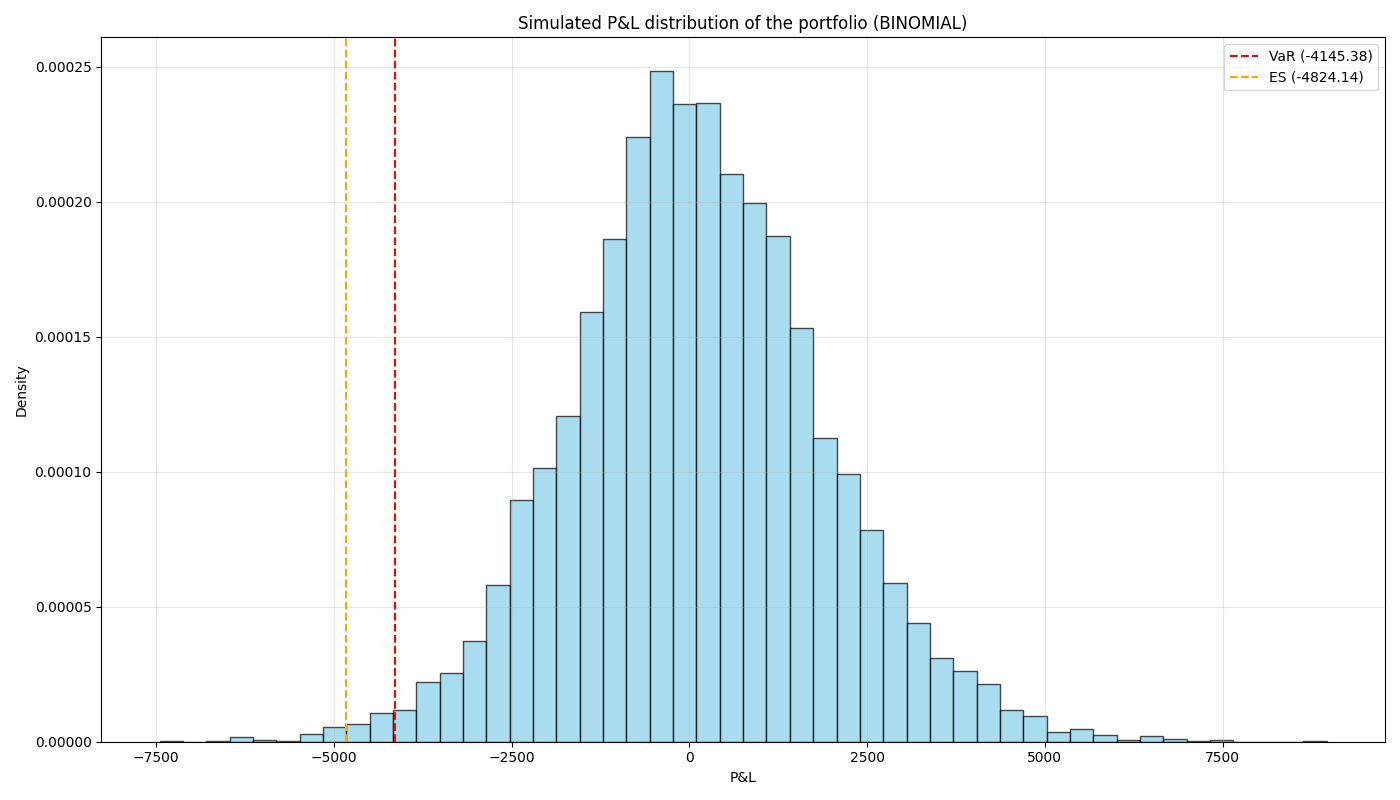
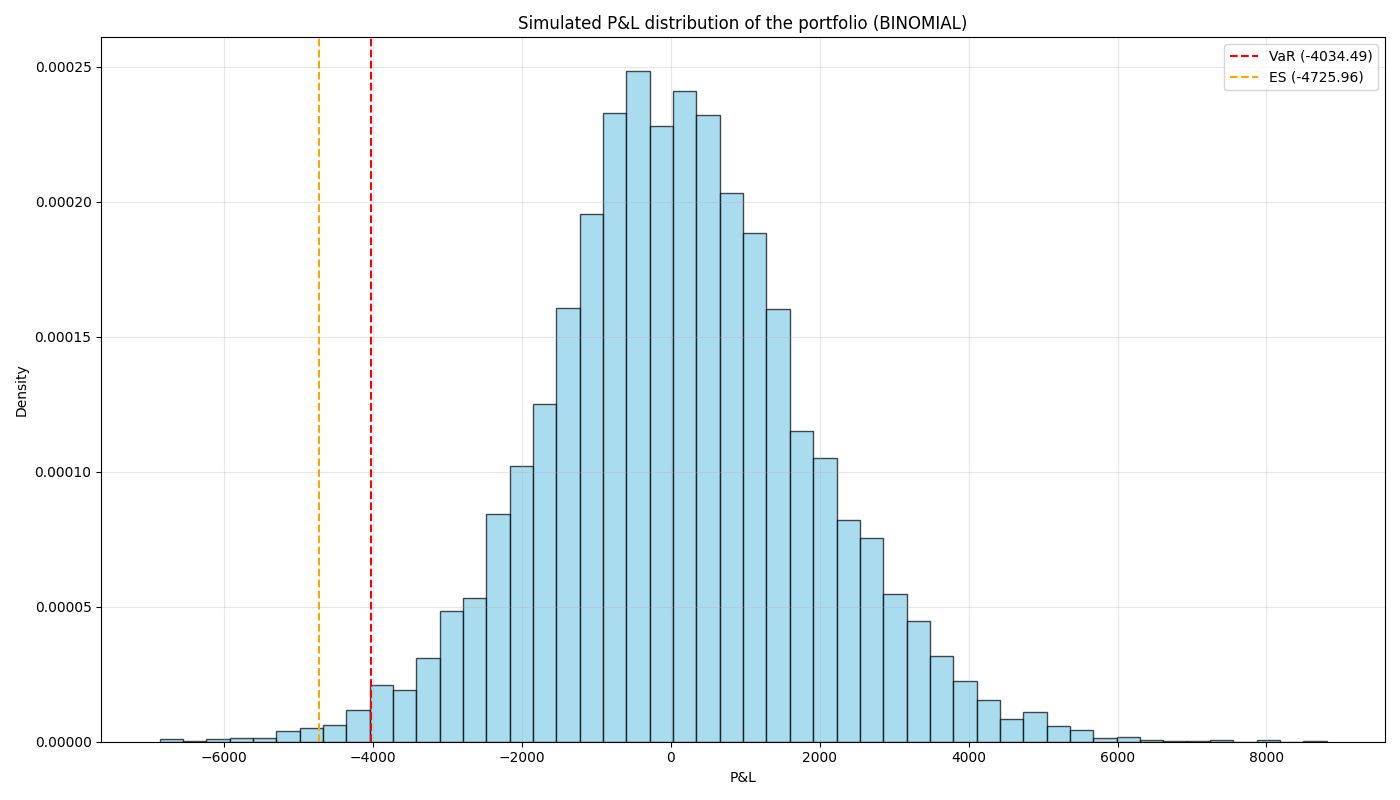
test

diff --git a/option_pricing/binomial_model/binomial_portfolio_analysis.py b/option_pricing/binomial_model/binomial_portfolio_analysis.py
@@ -30,6 +30,9 @@ from option_pricing.binomial_model.european_options.european_binomial import bin
 VIS_DIR = os.path.join(os.path.dirname(os.path.dirname(__file__)), "visualizations")
 os.makedirs(VIS_DIR, exist_ok=True)
 
+# Set a global random seed for reproducibility
+np.random.seed(42)
+
 def black_scholes_call_price(S, K, T, r, sigma):
     d1 = (np.log(S / K) + (r + 0.5 * sigma ** 2) * T) / (sigma * np.sqrt(T))
     d2 = d1 - sigma * np.sqrt(T)
@@ -303,7 +306,6 @@ if __name__ == "__main__":
         {'type': 'put',  'style': 'american', 'S': 5912.17, 'K': 5910, 'T': 0.0849, 'r': 0.0421, 'qty': -5,  'market_price': 106.89},
         {'type': 'call', 'style': 'european', 'S': 5912.17, 'K': 5920, 'T': 0.0849, 'r': 0.0421, 'qty': 10,   'market_price': 103.66},
         {'type': 'put', 'style': 'european', 'S': 5912.17, 'K': 5900, 'T': 0.0849, 'r': 0.0421, 'qty': 10,   'market_price': 102.92},
-
     ]
     horizonte_dias = 10 / 252  # días de trading
     N_steps = 100

diff --git a/option_pricing/black_scholes_model/bs_portfolio_analysis.py b/option_pricing/black_scholes_model/bs_portfolio_analysis.py
@@ -6,6 +6,9 @@ import copy
 import os
 import pandas as pd
 
+# Set a global random seed for reproducibility
+np.random.seed(42)
+
 # Definir ruta robusta para visualizaciones
 VIS_DIR = os.path.join(os.path.dirname(os.path.dirname(__file__)), "visualizations")
 os.makedirs(VIS_DIR, exist_ok=True)
